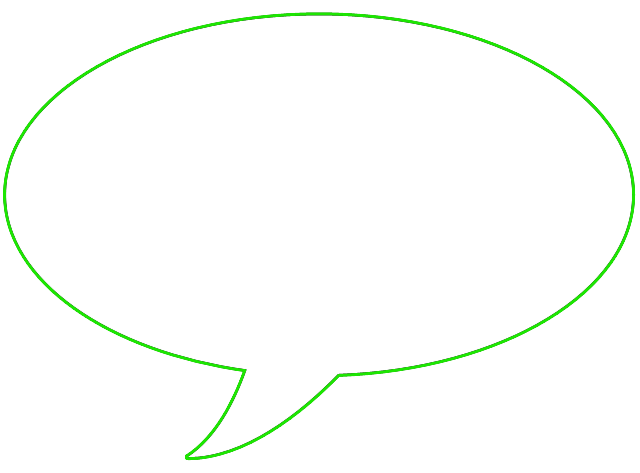
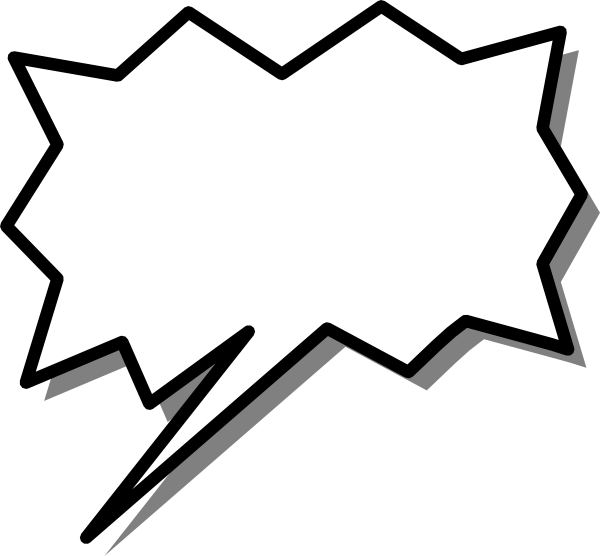
essai animation Rick

diff --git a/src/css/rickSanchez.css b/src/css/rickSanchez.css
@@ -1,0 +1,62 @@
+/* =============== CLASSES =============== */
+
+.rickFromLeft {
+    display: flex;
+    flex-direction: row;
+    justify-content: start;
+    width: 100%;
+}
+
+.rickFromLeftScreen {
+    position: absolute;
+    top: 25%;
+    left: -25%;
+    transform: rotate(35deg);
+    animation: apparitionLeft 1.5s ease-in 0.5s forwards;
+}
+
+.textArea {
+    position: absolute;
+    top: 15%;
+    left: 10%;
+    width: 250px;
+    opacity: 0;
+    transform: rotate(25deg);
+    animation: apparitionBehind 0.2s ease-in 2.2s forwards;
+}
+
+.textSay {
+    position: absolute;
+    width: 160px;
+    top: 21%;
+    left: 13%;
+    font-size: var(--h2-font-size);
+    font-family: var(--text-font);
+    color: black;
+    transform: rotate(28deg);
+    opacity: 0;
+    animation: apparitionBehind 0.1s ease-in 2.3s forwards;
+}
+
+/* =============== KEYFRAMES =============== */
+
+@keyframes apparitionLeft {
+    from {
+    top: 25%;
+    left: -25%;
+    }
+    to {
+    top: 25%;
+    left: -12%;
+    }
+}
+
+@keyframes apparitionBehind {
+    from {
+        opacity: 0;
+    }
+    to {
+        opacity: 0.9;
+    }
+}
+

diff --git a/src/App.js b/src/App.js
@@ -3,9 +3,12 @@ import "fullpage.js/vendors/scrolloverflow";
 import ReactFullpage from "@fullpage/react-fullpage";
 import './style.css';
 import BodyHome from "./components/Home.js";
-import Navbar from "./components/Navbar"
+import Navbar from "./components/Navbar";
 import LineScroll from "./components/LineScroll.js";
-
+import RickAnim from './components/RickSanchez.js';
+import './css/rickSanchez.css';
+import RickSanchez from './img/rickSanchez.png';
+import textAreaBasic from './img/bulleText.png'
 
 class FullpageWrapper extends React.Component {
   onLeave(origin, destination, direction) {
@@ -26,6 +29,7 @@ class FullpageWrapper extends React.Component {
               <div id="slide1" className="section section1">
                 <Navbar />
                 <BodyHome />
+                <RickAnim rickAnimation="rickFromLeft" rickImage={RickSanchez} rickTextArea={textAreaBasic} rickSay="Best website ever seen ! Blurp !" />
                 <LineScroll />
               </div>
               <div className="section">

diff --git a/src/components/RickSanchez.js b/src/components/RickSanchez.js
@@ -4,11 +4,13 @@ import '../css/rickSanchez.css'
 const RickAnim = (props) => {
     return (
         <div className={props.rickAnimation}>
-            <img src={props.rickImage} alt="picture of Rick Sanchez" />
+            <img className="rickFromLeftScreen" src={props.rickImage} alt="picture of Rick Sanchez" />
             <div>
-                <img src={props.rickTextArea} alt="text area for Rick" />
-                <p>{props.rickSay}</p>
+                <img className="textArea" src={props.rickTextArea} alt="text area for Rick" />
+                <p className="textSay">{props.rickSay}</p>
             </div>
         </div>
     )
 }
+
+export default RickAnim

diff --git a/src/css/home.css b/src/css/home.css
@@ -19,3 +19,27 @@
     font-size: var(--h3-font-size);
     letter-spacing: var(--spacing-font);
 }
+
+/* =============== QUERIES =============== */
+
+@media screen and (max-width: 1024px) {
+    .containerHolder {
+        top: 20%;
+        right: 0%;
+        width: 650px;
+    }
+    .containerResume {
+        font-size: var(--h1-font-size);
+    }
+}
+
+@media screen and (max-width: 1024px) {
+    .containerHolder {
+        top: 25%;
+        right: -10%;
+        width: 350px;
+    }
+    .containerResume {
+        font-size: var(--h2-font-size);
+    }
+}

diff --git a/src/css/navbar.css b/src/css/navbar.css
@@ -7,6 +7,7 @@
     flex-direction: row;
     justify-content: space-around;
     position: absolute;
+    flex-wrap: wrap;
     top: 0%;
     z-index: var(--z-tooltip);
 }
@@ -24,6 +25,16 @@
     animation: hoverNavbar 3s linear infinite;
 }
 
+/* =============== QUERIES =============== */
+
+@media screen and (max-width:1024px) {
+    .button {
+        padding: var(--mt-1-5);
+    }
+}
+
+
+/* =============== KEYFRAMES =============== */
 
 @keyframes hoverNavbar {
     0% {

diff --git a/src/css/lineScroll.css b/src/css/lineScroll.css
@@ -36,7 +36,7 @@
     text-shadow: 0.5px solid black;
     background: linear-gradient(to bottom, #1de502, rgba(255,255,255,0.5) 50%, rgba(229, 172, 142, 0));
     transform: rotateZ(10deg) translate(-10em, 2.5em);
-    animation: sheen 1.5s forwards infinite;
+    animation: sheen 1s forwards infinite;
 }
 
 @keyframes sheen {
